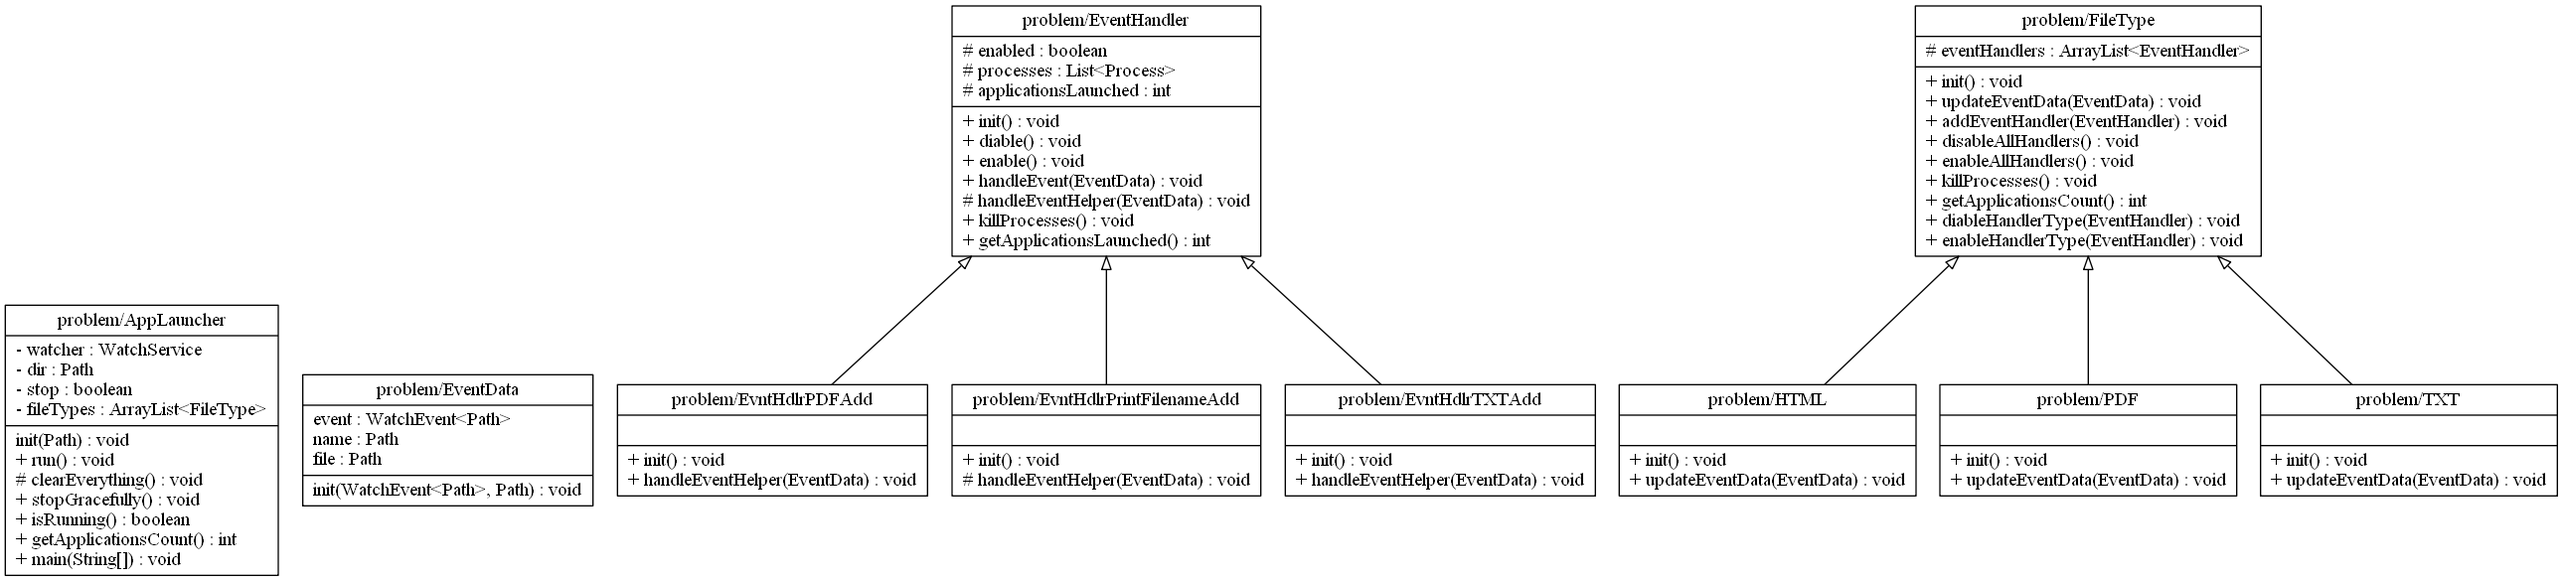
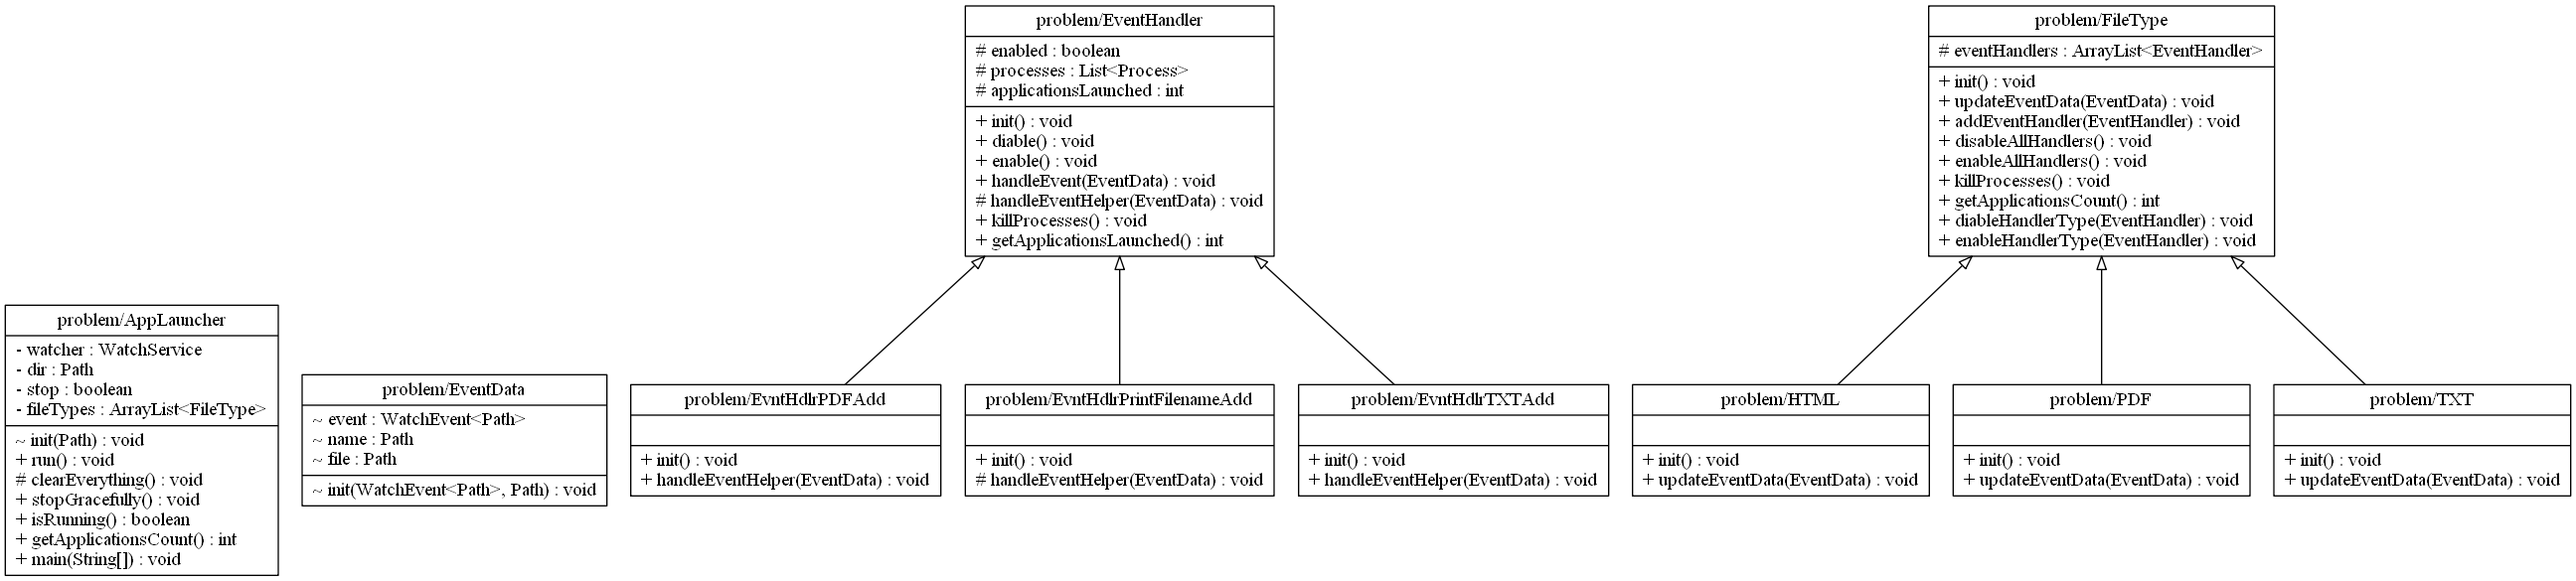
Added default indicator. Edited readme.

diff --git a/src/problem/asm/GraphItem.java b/src/problem/asm/GraphItem.java
@@ -33,6 +33,6 @@ public abstract class GraphItem {
 		{
 			return "#";
 		}
-		return "";
+		return "~";
 	}
 }

diff --git a/README.md b/README.md
@@ -1,21 +1,34 @@
 # UMLGenerator
 
 Design 
-For the UMLGenerator, operates using the visitor pattern. DesignParser operates as the client code which helps choose the .class files have been chosen to construct a UML, and then creates a series of Visitors that decorate one another. A ClassReader object (from ASM's package) works as the traverser in the design, which uses one decorated Visitor to store the relevant information from each class. 
+For the UMLGenerator, operates using the visitor pattern. 
+DesignParser operates as the client code which helps choose the .class files have been chosen to construct a UML, and then creates a series of Visitors that decorate one another. 
+A ClassReader object (from ASM's package) works as the traverser in the design, which uses one decorated Visitor to store the relevant information from each class. 
 
-Specifically three Visitor classes have been made, ClassDeclarationVisitor, ClassFieldVisitor, and ClassMethodVisitor that each implement ASM's ClassVisitor. The ClassDeclarationVistor collects information based on the declaration of each class, including the title, the interfaces they implement, and their superclasses. ClassFieldVistor collects information of the a classes' field, including names and access modifiers. ClassMethodVisitor collects information on the classes' methods including names, access modifies, and parameters. Each of these classes have a UMLGraph Field to store the relevant information. All of these visitor classes have a constructor which accepts a ClassVisitor object so that they may decorate one another properly.
+Specifically three Visitor classes have been made, ClassDeclarationVisitor, ClassFieldVisitor, and ClassMethodVisitor that each implement ASM's ClassVisitor. 
+The ClassDeclarationVistor collects information based on the declaration of each class, including the title, the interfaces they implement, and their superclasses. 
+ClassFieldVistor collects information of the a classes' field, including names and access modifiers.
+ClassMethodVisitor collects information on the classes' methods including names, access modifies, and parameters. 
+Each of these classes have a UMLGraph Field so that they may pass relevant information onto the graph.
+All of these visitor classes have a constructor which accepts a ClassVisitor object so that they may decorate one another properly.
 
-UMLGraph is the class that acts as the storage structure for all the information collected from classes. It stores each interpreted class by using a UMLClass object. Each UMLClass object stores its respective declaration, fields (via a list of UMLField objects), and methods (via a list of UMLMethod objects). The set of classes UMLGraph, UMLClass, UMLField, and UMLMethod all implement IGraphItem, an interface with only one method: toGraphVizString(). Each of these classes implement this method such that the return string represents itself in a way that can be interpreted by GraphViz. UMLGraph's toGraphVizString() is responsible for returning the full string inputed into GraphViz. 
+UMLGraph is the class that acts as the storage structure for all the information collected from classes. It stores each interpreted class by using a UMLClass object. 
+Each UMLClass object stores its respective declaration, fields (via a list of UMLField objects), and methods (via a list of UMLMethod objects). 
+The set of classes UMLGraph, UMLClass, UMLField, and UMLMethod all extend GraphItem, an abstract class with two methods: toGraphVizString(), and getAccessTypeSymbol(int accessType).
+Each of these classes implement toGraphVizString() such that the return string represents itself in a way that can be interpreted by GraphViz. 
+The getAccessTypeSymbol method is just a helper method, used to determine the appropriate access level string for various GraphItems.
+UMLGraph's toGraphVizString() is responsible for returning the full string inputed into GraphViz. 
 
 
 
 Who did what: 
 Alec Tiefenthal
 Milestone 1: 
--Created IGraphItem, UMLClass, UMLField, UMLGraph, and UMLMethod, modified the other classes given in lab 3-1 to support the drawing of classes, fields, and methods. 
+-Created GraphItem, UMLClass, UMLField, UMLGraph, and UMLMethod, modified the other classes given in lab 3-1 to support the drawing of classes, fields, and methods. 
 -Added arrows that represent "implements". 
 -Implemented file choosing and saving for ease of use. 
--Added class documentation
+-Added class documentation.
+-Created UML diagram.
 
 
 Dan McGarry
@@ -34,18 +47,24 @@ Step 1:
 In order to use the UML generator, import the UMLGenerator into an eclipse workspace. 
 
 Step 2:
-With a program such as windows explorer, navigate to UMLGenerator/files. This folder contains .class files that the program uses to generate the UML. If the desired classes you wish to generate a UML of are in this folder, move to step 3. Else follow the next step to generate the proper .class files.
+With a program such as windows explorer, navigate to UMLGenerator/files. This folder contains .class files that the program uses to generate the UML. 
+If the desired classes you wish to generate a UML of are in this folder, move to step 3. Else follow the next step to generate the proper .class files.
 
 Step 2.1:
-To generate class files, simply import the desired project into eclipse. If the project compiles, a "bin" folder will be created where ever the project is located. Move the desired .class files into the /files folder for easy selection.
+To generate class files, simply import the desired project into eclipse. If the project compiles, a "bin" folder will be created where ever the project is located.
+If you do not want to navigate to the bin folder using the java filechooser, move the desired .class files into the /files folder for easy selection.
 
 Step 3:
 Once UMLGenerator has been imported, run the main function within the DesignParser Class, supplying no arguments. This can either be done via command line or eclipses run button/command. 
 
-Step 4: 
-A file navigation window will appear, starting in the /files folder. Select the files you wish to generate a UML of and then click open. 
+Step 4:
+A box will appear confirming that the GraphViz dot.exe is in it's default path. If it isn't, hit 'No' and proceed to find it with the file navigator.
 
-Step 4:  
+Step 5: 
+A file navigation window will appear, starting in the /files folder. Select the files you wish to generate a UML of and then click open. 
+As a note, you can select multiple files using shift and/or control + click.
+
+Step 6:  
 A new popup window will appear asking for a save location and name. Clicking save will generate both a .png and a .dot file that contain the uml of the desired classes at the location you specify.
 
 Step 5:
